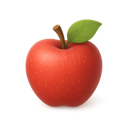
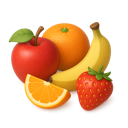
feat(ui): new Fruits category art; remove swipe-to-delete
- replace assets/images/categories/fruits.png with the supplied thiings art
- drop swipe-to-delete (component + usages on inventory/shopping); item
  removal is via long-press on shopping rows and the item form's delete

diff --git a/app/(tabs)/index.tsx b/app/(tabs)/index.tsx
@@ -10,7 +10,6 @@ import {
   RefreshControl,
   Animated,
   Image,
-  Alert,
 } from 'react-native';
 import { Ionicons } from '@expo/vector-icons';
 import { router } from 'expo-router';
@@ -22,7 +21,6 @@ import { categoryImage } from '@/constants/categoryImages';
 import type { ImageSourcePropType } from 'react-native';
 import { Tappable } from '../../components/ui/tappable';
 import { Text } from '../../components/ui/text';
-import { SwipeToDelete } from '../../components/SwipeToDelete';
 import {
   CollapsibleHeaderBar,
   LargeTitle,
@@ -253,7 +251,7 @@ function SearchPill({
 
 // ─── Main Screen ──────────────────────────────────────────────────────────────
 export default function InventoryScreen() {
-  const { inventory, house, adjustInventoryQty, loadHouseData, loading, deleteInventoryItem } = useGleanStore();
+  const { inventory, house, adjustInventoryQty, loadHouseData, loading } = useGleanStore();
   const insets = useSafeAreaInsets();
   const { scrollY, onScroll } = useCollapsibleHeader();
   const headerInset = useHeaderContentInset();
@@ -279,13 +277,6 @@ export default function InventoryScreen() {
     lastNav.current = now;
     router.push(`/item-form?itemId=${itemId}`);
   }, []);
-
-  const confirmDeleteItem = useCallback((item: InventoryItem) => {
-    Alert.alert('Delete item', `Remove "${item.name}" and its photo?`, [
-      { text: 'Cancel', style: 'cancel' },
-      { text: 'Delete', style: 'destructive', onPress: () => deleteInventoryItem(item.id) },
-    ]);
-  }, [deleteInventoryItem]);
 
   const onRefresh = useCallback(async () => {
     if (!house) return;
@@ -433,9 +424,7 @@ export default function InventoryScreen() {
         renderSectionHeader={({ section: { title, data } }) => <SectionHeader title={title} count={data.length} />}
         renderItem={({ item, index, section }) => (
           <View>
-            <SwipeToDelete onDelete={() => confirmDeleteItem(item)}>
-              <InventoryRow item={item} onNavigate={navigateToItem} onAdjust={adjustInventoryQty} />
-            </SwipeToDelete>
+            <InventoryRow item={item} onNavigate={navigateToItem} onAdjust={adjustInventoryQty} />
             {index < section.data.length - 1 && (
               <View style={{ height: 1, backgroundColor: C.border, marginLeft: ROW_INSET, marginRight: PAD }} />
             )}

diff --git a/app/(tabs)/shopping.tsx b/app/(tabs)/shopping.tsx
@@ -4,7 +4,6 @@ import { Ionicons } from '@expo/vector-icons';
 import { useSafeAreaInsets } from 'react-native-safe-area-context';
 import { Tappable } from '../../components/ui/tappable';
 import { Text } from '../../components/ui/text';
-import { SwipeToDelete } from '../../components/SwipeToDelete';
 import { CollapsibleHeaderBar, LargeTitle, useCollapsibleHeader, useHeaderContentInset } from '../../components/CollapsibleHeader';
 import { NativeSheet } from '../../components/NativeSheet';
 import { useGleanStore, ShoppingItem } from '../../store/useGleanStore';
@@ -311,9 +310,7 @@ export default function ShoppingScreen() {
                   <SectionLabel label="To buy" />
                   {toBuy.map((s, i) => (
                     <View key={s.id}>
-                      <SwipeToDelete onDelete={() => handleRemove(s)}>
-                        <ShoppingRow item={s} subtitle={s.inventory_id ? categoryById[s.inventory_id] : undefined} onToggle={togglePurchased} onAdjust={adjustShoppingQty} onRemove={handleRemove} />
-                      </SwipeToDelete>
+                      <ShoppingRow item={s} subtitle={s.inventory_id ? categoryById[s.inventory_id] : undefined} onToggle={togglePurchased} onAdjust={adjustShoppingQty} onRemove={handleRemove} />
                       {i < toBuy.length - 1 && <RowSeparator />}
                     </View>
                   ))}
@@ -333,9 +330,7 @@ export default function ShoppingScreen() {
             <SectionLabel label="Purchased" />
             {purchased.map((s, i) => (
               <View key={s.id}>
-                <SwipeToDelete onDelete={() => handleRemove(s)}>
-                  <ShoppingRow item={s} subtitle={s.inventory_id ? categoryById[s.inventory_id] : undefined} onToggle={togglePurchased} onAdjust={adjustShoppingQty} onRemove={handleRemove} />
-                </SwipeToDelete>
+                <ShoppingRow item={s} subtitle={s.inventory_id ? categoryById[s.inventory_id] : undefined} onToggle={togglePurchased} onAdjust={adjustShoppingQty} onRemove={handleRemove} />
                 {i < purchased.length - 1 && <RowSeparator />}
               </View>
             ))}
